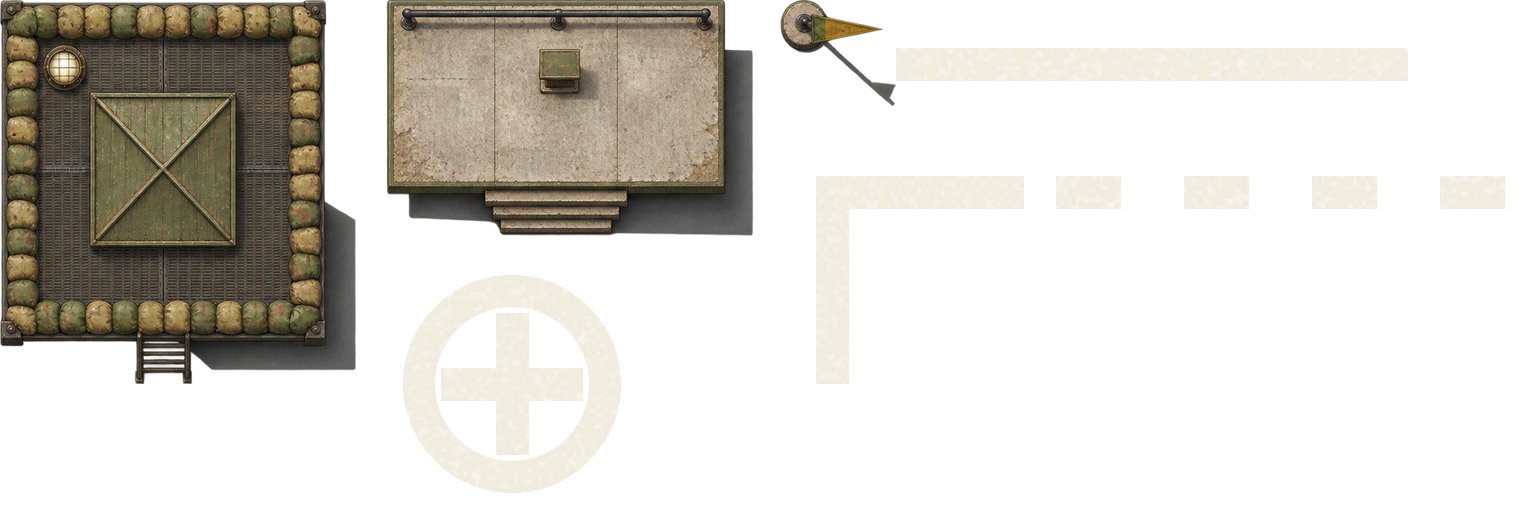
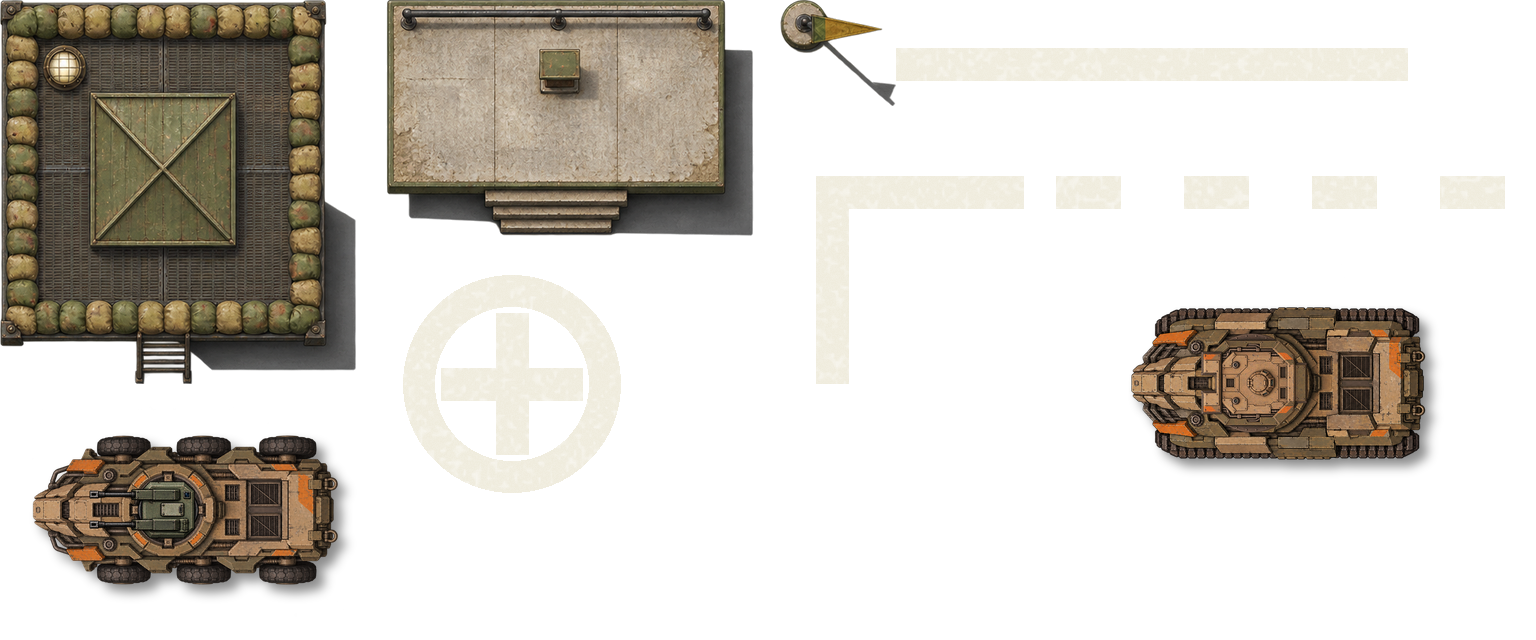
Parked armour for the Raid vehicle park (raid-redesign): doodad.parked-tank (4x2, heg-medium-tank hull with its turret on the ring) and doodad.parked-apc-army (3x2, army-apc with its turret), composited from the shipped plain-livery intact frames, nose and turret west, a soft shadow to the south-eas

diff --git a/art-source/raid-sites/military/export.py b/art-source/raid-sites/military/export.py
@@ -2,7 +2,7 @@
 
 The watchtower, saluting base and flag mast are cut from the painted raw (`raw/military-base.raw.png`, painted over
 `guide.png`); the raw's drawn extent is registered on the guide's frames, since ImageGen does not always keep the
-canvas. The parade square's painted markings are drawn here: worn off-white paint over the paving the layout lays,
+canvas. The parked armour is composited from the shipped vehicle sprites. The parade square's painted markings are drawn here: worn off-white paint over the paving the layout lays,
 each line along the middle of its cell row so the pieces join end to end and at corners.
 
 Usage: python art-source/raid-sites/military/export.py
@@ -14,7 +14,7 @@ import tempfile
 from pathlib import Path
 
 import numpy as np
-from PIL import Image, ImageDraw
+from PIL import Image, ImageDraw, ImageFilter
 
 HERE = Path(__file__).resolve().parent
 ROOT = HERE.parents[2]
@@ -42,7 +42,24 @@ PIECES = {
     "parade-ranks": ("Parade ranks", "A dashed rank line marking where a file stands; runs join end to end.", 4, 1,
                      "none", {}),
     "parade-centre": ("Parade centre", "The square's painted centre mark: a cross in a ring.", 2, 2, "none", {}),
+    "parked-tank": ("Parked tank", "A Hegemony medium tank parked in the vehicle park, turret and gun forward (west).",
+                    4, 2, "heavy", {"ballisticHalfHeight": 0.55}),
+    "parked-apc-army": ("Parked APC", "An army APC parked in the vehicle park, nose and turret forward (west).", 3, 2,
+                        "heavy", {"ballisticHalfHeight": 0.55}),
 }
+
+# Parked armour composited from the shipped vehicle sprites (graphics/battle/vehicles, plain livery, intact frames):
+# frame 0 the hull and frame 1 the turret, 768x576 each, nose to the west (-x). The turret is drawn on its ring
+# `mount` px ahead of the hull frame's centre, at `turret` times the hull's scale (VehicleType's turretVisualCells over
+# DRAWN_LENGTH). The vehicle is fitted inside its footprint with a small margin and given a soft shadow to the
+# south-east.
+VEHICLES = {
+    "parked-tank": ("heg-medium-tank.png", 54, 1.0),
+    "parked-apc-army": ("army-apc.png", 49, 1.42 / 2.4),
+}
+VEHICLE_FRAME = (768, 576)
+VEHICLE_MARGIN = 0.92
+SHADOW_ALPHA = 0.45
 
 
 def register(raw, frames):
@@ -111,6 +128,33 @@ def markings():
     yield "parade-centre", worn(m, 4)
 
 
+def vehicles():
+    fw, fh = VEHICLE_FRAME
+    for pid, (sprite, mount, turret_scale) in VEHICLES.items():
+        sheet = Image.open(ROOT / "mod" / "graphics" / "battle" / "vehicles" / sprite).convert("RGBA")
+        hull = sheet.crop((0, 0, fw, fh))
+        top = sheet.crop((fw, 0, 2 * fw, fh))
+        if turret_scale != 1.0:
+            top = top.resize((round(fw * turret_scale), round(fh * turret_scale)), Image.LANCZOS)
+        body = hull.copy()
+        body.alpha_composite(top, (round(fw / 2 - mount - top.width / 2), round(fh / 2 - top.height / 2)))
+        body = body.crop(body.getbbox())
+        cw, ch = PIECES[pid][2], PIECES[pid][3]
+        w, h = cw * CELL_PX, ch * CELL_PX
+        scale = min(w * VEHICLE_MARGIN / body.width, h * VEHICLE_MARGIN / body.height)
+        body = body.resize((round(body.width * scale), round(body.height * scale)), Image.LANCZOS)
+        x, y = (w - body.width) // 2 - 3, (h - body.height) // 2 - 3
+        out = Image.new("RGBA", (w, h))
+        shade = Image.new("L", (w, h))
+        shade.paste(body.getchannel("A"), (x + 8, y + 8))
+        shade = shade.filter(ImageFilter.GaussianBlur(5)).point(lambda v: round(v * SHADOW_ALPHA))
+        dark = Image.new("RGBA", (w, h), (0, 0, 0, 255))
+        dark.putalpha(shade)
+        out.alpha_composite(dark)
+        out.alpha_composite(body, (x, y))
+        yield pid, out
+
+
 def metadata():
     assets = {}
     for order, (pid, (name, what, cw, ch, cover, extra)) in enumerate(PIECES.items(), 1):
@@ -124,7 +168,7 @@ def main():
     meta.write_text(json.dumps(metadata(), indent=2) + "\n", encoding="utf-8")
     with tempfile.TemporaryDirectory() as scratch:
         staged = Path(scratch)
-        for pid, piece in (*painted(), *markings()):
+        for pid, piece in (*painted(), *markings(), *vehicles()):
             piece.save(staged / f"{pid}.png")
         build_atlas(BuildOptions(
             input_dir=staged,
